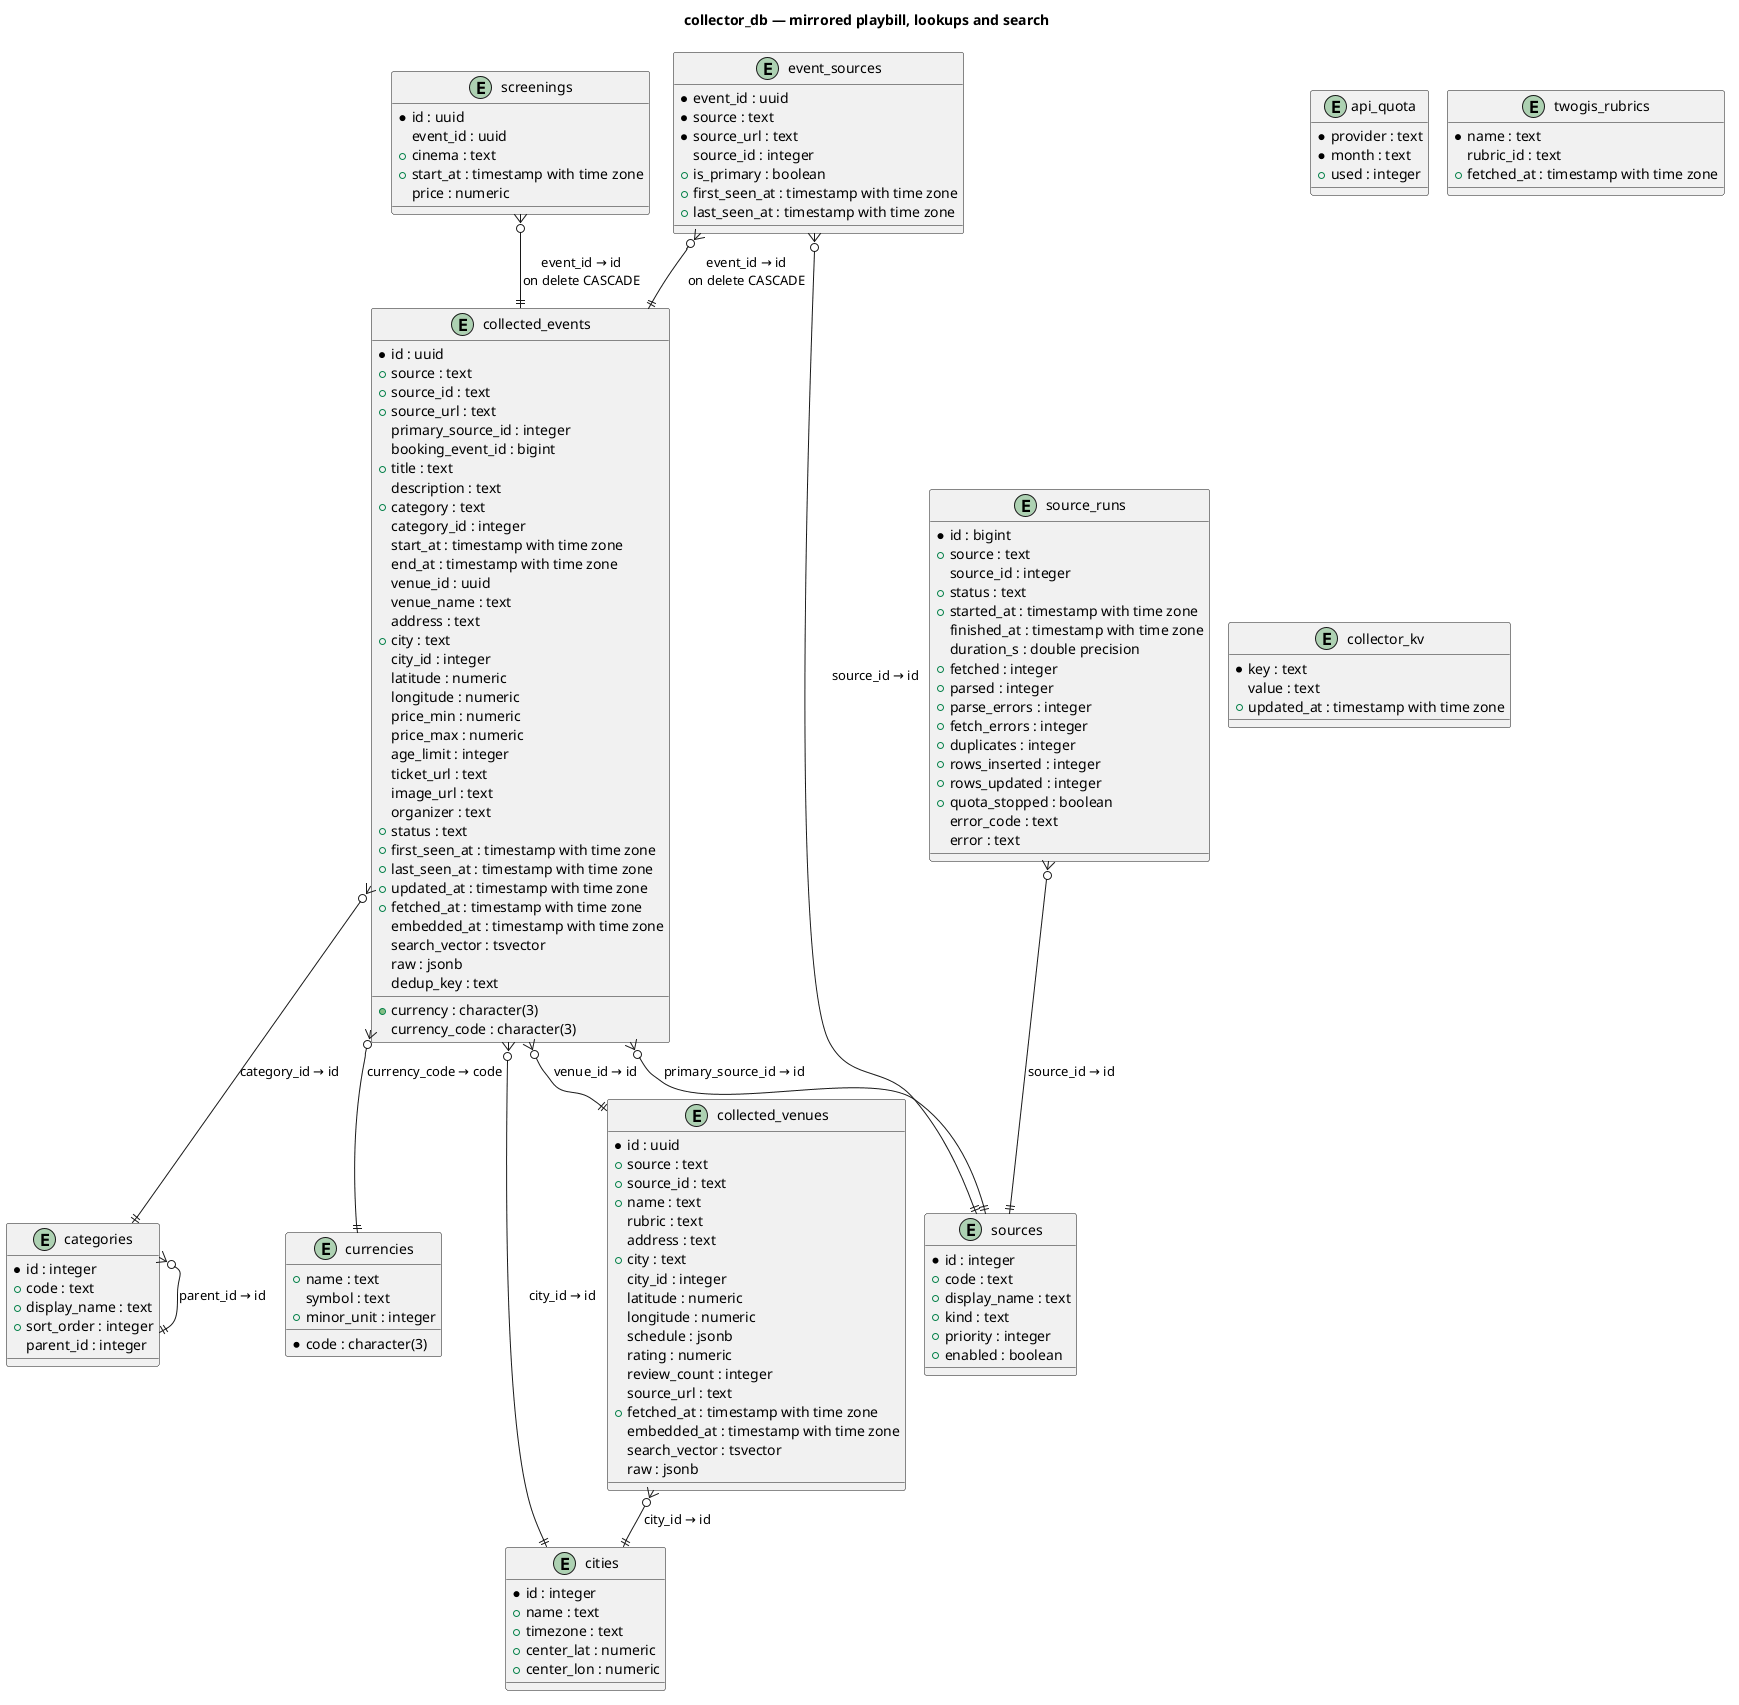
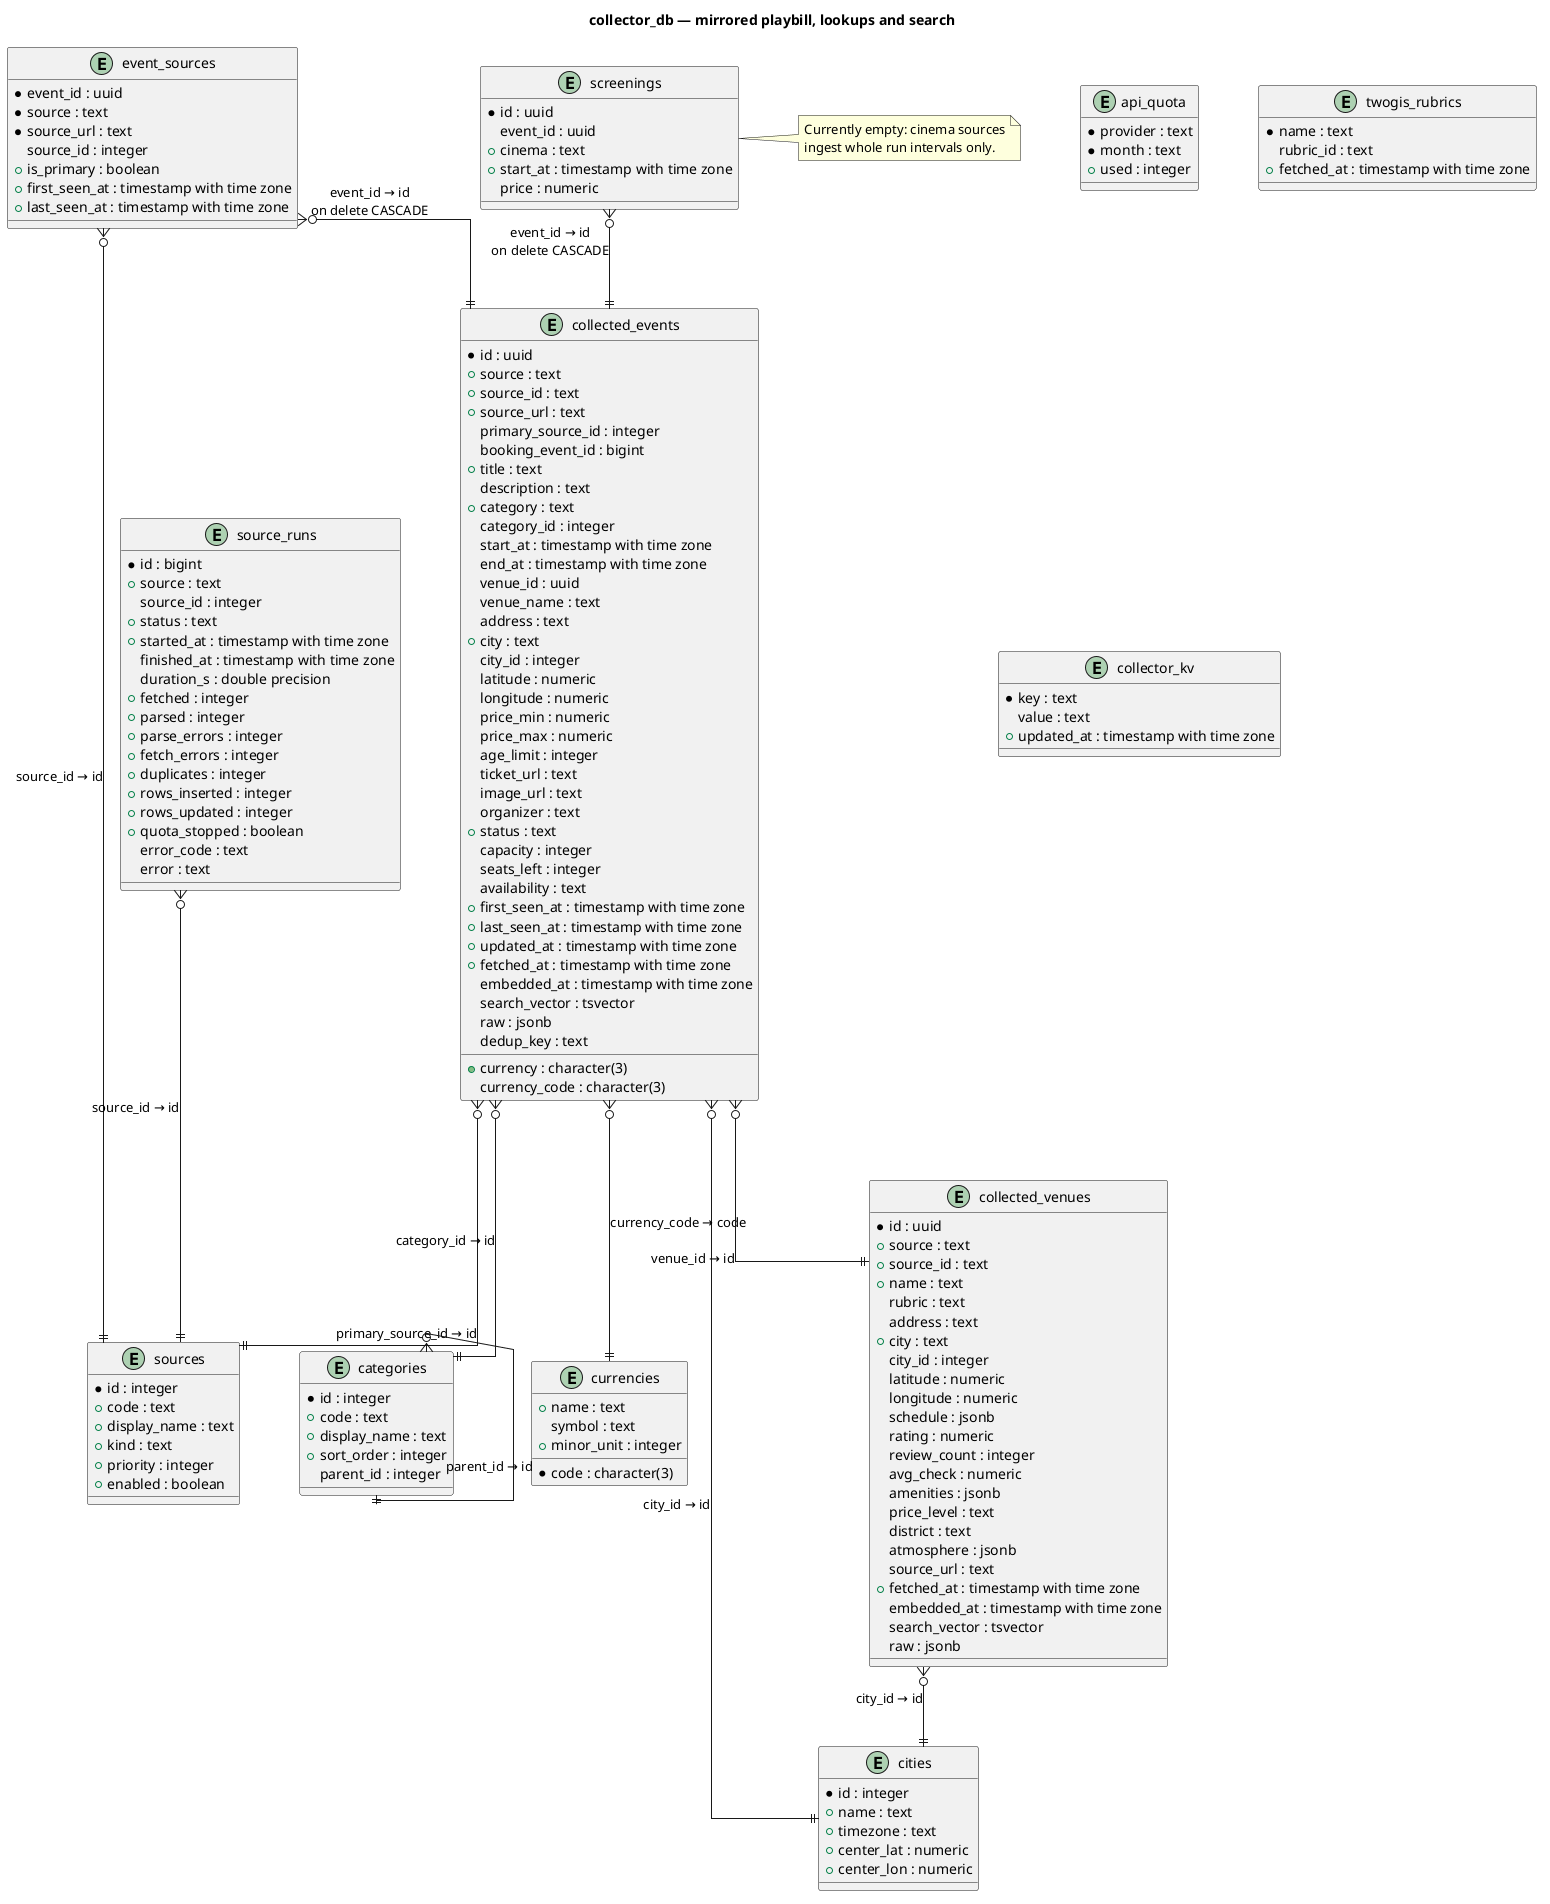
docs: sync data model with collector V3/V4 and event flow

diff --git a/docs/DATA_MODEL.md b/docs/DATA_MODEL.md
@@ -208,6 +208,9 @@ erDiagram
         text image_url
         text organizer
         text status "scheduled | cancelled | sold_out"
+        int capacity "nullable >= 0"
+        int seats_left "nullable <= capacity"
+        text availability "in_stock | limited | sold_out | unknown"
         timestamptz first_seen_at
         timestamptz last_seen_at
         timestamptz updated_at
@@ -232,6 +235,11 @@ erDiagram
         jsonb schedule
         numeric rating
         int review_count
+        numeric avg_check "nullable >= 0"
+        jsonb amenities "nullable source-dependent"
+        text price_level "low | medium | high"
+        text district
+        jsonb atmosphere "tags: quiet, cozy, live_music, ..."
         text source_url
         timestamptz fetched_at
         timestamptz embedded_at
@@ -302,13 +310,30 @@ Notes
   (`sources.priority` replaced `SOURCE_PRIORITY`, `categories` replaced the
   `CATEGORIES` set). Text columns stay next to the FK ids during the
   transition, so old queries keep working.
-- `dedup_key` is a partial unique index: the same logical scraped event from
-  two sources is merged into one row, and `event_sources` keeps every URL.
-  Rows mirrored from booking-service have `dedup_key = NULL` and never join
-  that merge — deleting a booking event must not remove its scraped twin.
+- `dedup_key` drives cross-source merging: the same logical event seen by a
+  scraper and mirrored from booking-service collapses into one row, and
+  `event_sources` keeps every URL. The unique guard is partial — it skips
+  `source = 'booking'` rows so two genuinely separate bookable performances
+  with the same title/time/venue stay apart; a non-unique lookup index keeps
+  booking rows reachable by key.
 - `booking_event_id` marks a row mirrored from `booking.catalog` (Kafka).
   Its value is the bookable id the assistant uses for availability/holds;
   Qdrant payloads carry it next to the UUID point id.
+- Availability columns (V3) are nullable and only filled when the source
+  publishes them: `capacity`/`seats_left` are guarded by
+  `seats_left <= capacity`, `availability` is constrained to
+  `in_stock | limited | sold_out | unknown`. Booking mirrors get live values;
+  scraped rows usually stay `NULL` / `unknown` and carry a source link.
+- Venue enrichment columns (V3) — `avg_check`, `amenities`, `price_level`,
+  `district` — are nullable too. The live 2GIS API returns no attribute
+  groups, so they stay `NULL` on real data and filters that need them fall
+  back to text or treat unknown as passing. `atmosphere` (V4) is a JSONB array
+  of RU tags (`quiet`, `cozy`, `live_music`, ...) written by
+  `POST /collect/atmosphere`; `NULL` means "not enriched yet".
+- `screenings` exists for exact cinema showtimes but is **currently empty**:
+  the cinema sources ingest whole run intervals (`category = 'film'`) and no
+  adapter produces per-screening rows yet.
+
 - `search_vector` is maintained by a trigger (title A, venue B, description C)
   and indexed with GIN — this is the lexical half of hybrid search. The same
   trigger bumps `updated_at`.
@@ -354,9 +379,13 @@ erDiagram
 
 Notes
 
-- `dialogue_runs` is write-only telemetry; it is truncated by tests and read
-  by `GET /metrics`.
+- `dialogue_runs` is the **only** stored dialogue telemetry (one row per turn:
+  action, clarification flag, duration); it is truncated by tests and read by
+  `GET /metrics`. The chat transcript itself is **not** persisted — history
+  lives client-side in the browser, so a new session starts from scratch.
 - `booking_holds` stores a **booking intent**, not real inventory:
+  - it is keyed by `session_id` only (`BIGINT event_id`, no `user_id` column),
+    so anonymous visitors can hold seats before logging in;
   - one pending intent per `(session_id, event_id)` via the partial unique
     index `uq_booking_holds_pending`;
   - `CHECK` constraints keep `price >= 0` and `1 <= party_size <= 20`;
@@ -372,13 +401,14 @@ Notes
 
 ```mermaid
 flowchart LR
-    FE[Next.js frontend] -->|/users/*, /booking/*, /assistant/*| GW[Gateway]
+    FE[Next.js frontend] -->|/users/*, /booking/*, /assistant/*, /catalog/*| GW[Gateway]
     GW --> US[user-service]
     GW --> BS[booking-service]
     GW --> AS[assistant-service]
+    GW -->|/catalog/* (StripPrefix=1)| CS[collector-service]
     BS -.->|Kafka: notification.booking| NS[notification-service-go]
-    US -.->|Kafka: user.mass-mail| BS
-    AS -->|lexical search| CS[collector-service]
+    BS -.->|Kafka: user.mass-mail| US
+    AS -->|lexical search| CS
     AS -->|embeddings| LL[llama.cpp server]
     AS -->|vectors| QD[(Qdrant)]
     AS -->|availability / event read| BS
@@ -390,8 +420,10 @@ flowchart LR
 
 The data model is intentionally split per service: there are no cross-database
 foreign keys, only ids exchanged in DTOs. `event_id` in `booking_holds` is a
-booking-service id (integer); collected events use UUIDs and therefore never
-get a live availability check.
+booking-service id (integer); collected events use UUIDs, so a scraped event
+can only show the availability its source published (`availability` /
+`seats_left`, often `unknown`) plus a source link, while rows mirrored from
+booking-service carry `booking_event_id` and can be checked live.
 
 ---
 
